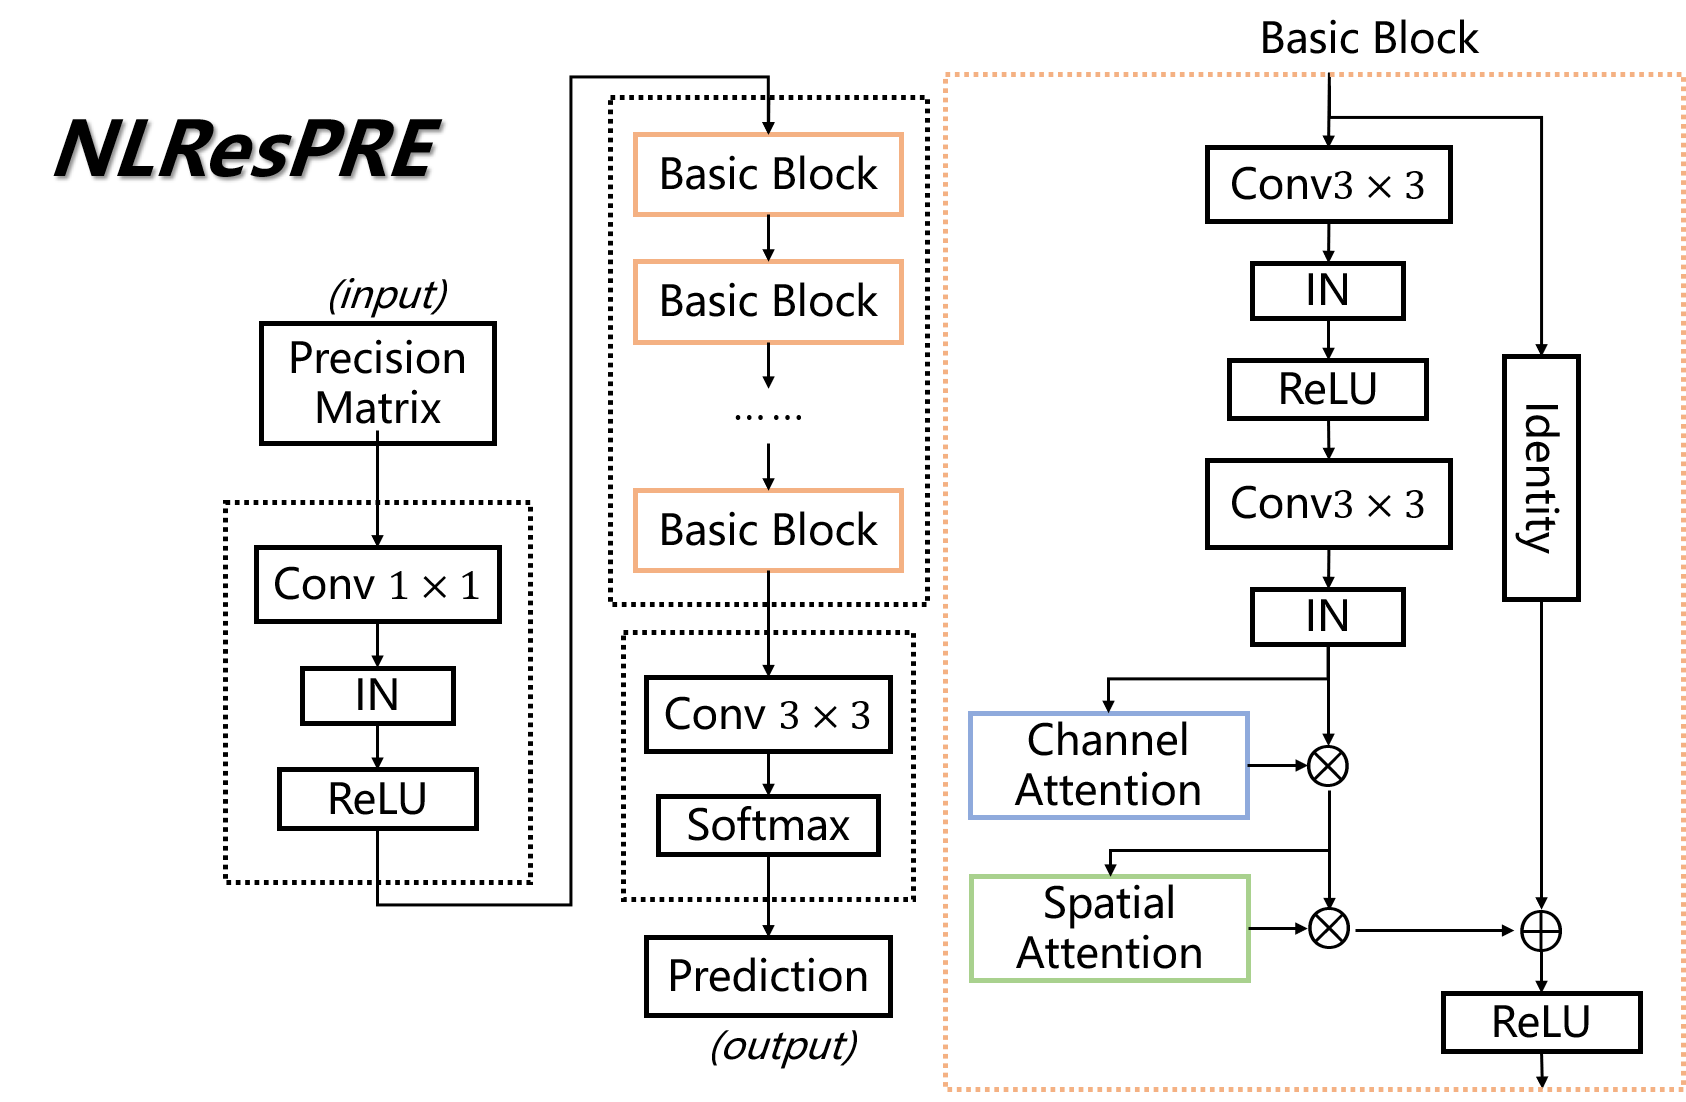
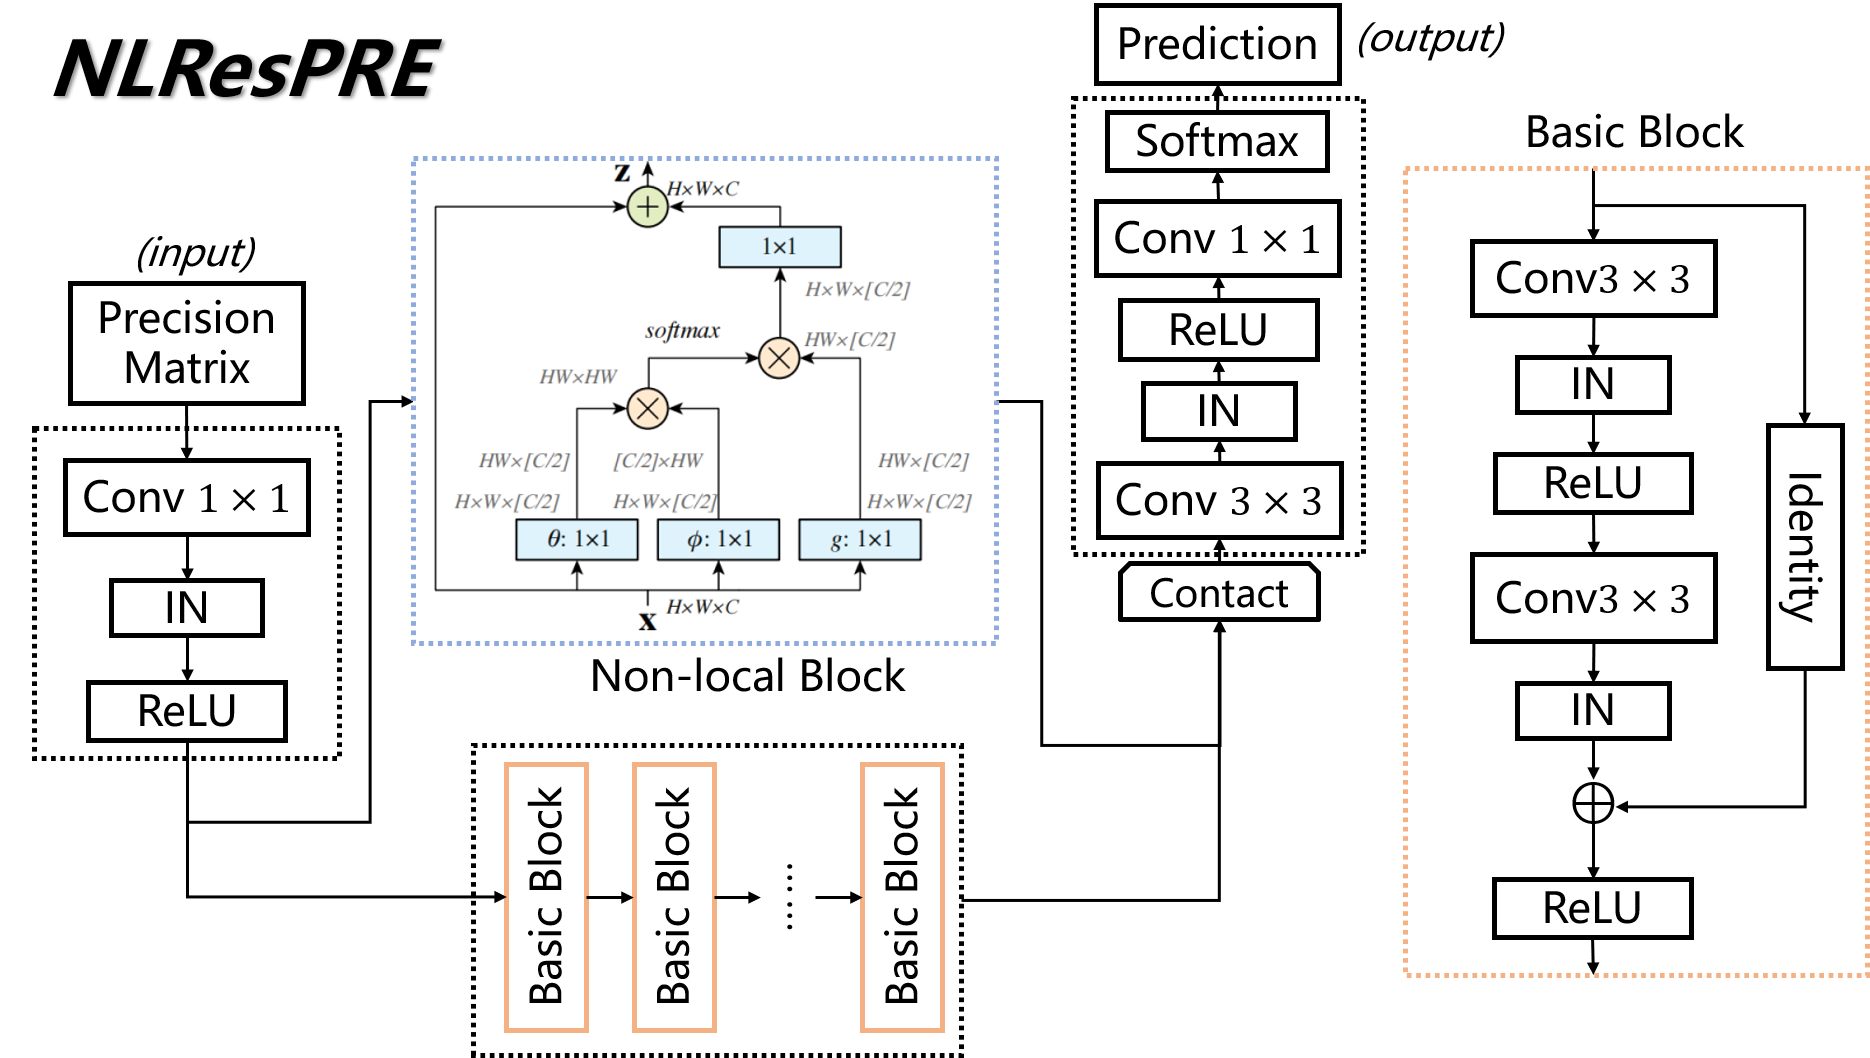
add docs and imgs

diff --git a/docs/configurations.md b/docs/configurations.md
@@ -10,9 +10,15 @@ The configuration files are all written in YAML format.
 
 All the default/provided configuration files are stored in the `configs` folder, in which
 
-- `DeepCov.yaml` (default configuration) is the configuration file of model 1;
-- `ResPRE.yaml` (DeepCov configuration), is the configuration file of model 2;
-- `NLResPRE.yaml` (ResPRE configuration), is the configuration file of model 3;
+- `DeepCov.yaml` (DeepCov configuration) is the configuration file of model 1;
+- `ResPRE.yaml` (ResPRE configuration), is the configuration file of model 2;
+- `FCResPRE.yaml` (FCResPRE configuration), is the configuration file of model 2.5;
+- `CbamResPRE.yaml` (CbamResPRE configuration), is the configuration file of model 3;
+- `CbamFCResPRE.yaml` (CbamFCResPRE configuration), is the configuration file of model 3.5;
+- `SEResPRE.ymal` (SEResPRE configuration), is the configuration file of model 4;
+- `SEFCResPRE.yaml` (SEFCResPRE configuration), is the configuration file of model 4.5;
+- `NLResPRE.yaml` (NLResPRE configuration), is the configuration file of model 5;
+- `HaloResPRE.yaml` (HaloResPRE configuration), is the configuration file of model 6;
 
 You can refer to the given configuration file to set up your own configurations. In the next sections we will introduce the possible items in the configuration of each model.
 
@@ -44,50 +50,63 @@ Here are the possible items in the configuration file of DeepCov model (model 1)
 
 Here are the possible items in the configuration file of ResPRE model (model 2).
 
-- `batch_size`: int, optional, default: 4, the batch size of the training/evaluation stage of the DeepCov model;
-- `zipped`: bool, optional, default: True, whether the data files are zipped;
-- `multigpu`: bool, optional, default: True, whether to multiple GPUs in training/inference;
-- `max_epoch`: int, optional, default: 30, the maximum of epoch num;
-- `adam_beta1`: float, optional, default: 0.9, the `beta1` parameter of AdamW optimizer;
-- `adam_beta2`: float, optional, default: 0.999, the `beta2` parameter of AdamW optimizer;
-- `adam_weight_decay`: float, optional, default: 0.01, the `weight_decay` parameter of AdamW optimizer;
-- `adam_eps`: float, optional, default: 1e-6, the `eps` parameter of AdamW optimizer;
-- `learning_rate`: float, optional, default: 0.001, the initial learning rate of AdamW optimizer;
-- `milestones`: list of int, optional, default: [15], the `milestones` parameter of learning rate scheduler;
-- `gamma`: float, optional, default: 0.1, the `gamma` parameter of learning rate scheduler;
-- `checkpoint_dir`: str, optional, default: 'checkpoint', the folder name where checkpoint file will be stored;
-- `temp_dir`: str, optional, default: 'temp', the folder name where temporary files will be stored;
-- `softmax`: bool, optional, default: True, whether the output will be activated by softmax function;
+- `batch_size`, `zipped`, `multigpu`, `max_epoch`, `adam_beta1`, `adam_beta2`, `adam_weight_decay`, `adam_eps`, `learning_rate`, `milestones`, `gamma`, `checkpoint_dir`, `temp_dir`, `softmax` parameters have already described in model 1.
 - `network`:
-    - `name`: str, optional, default: 'SampleNet', the name of network;
-    - `input_channel`: int, optional, default: 441, the dimension of input;
-    - `output_channel`: int, optional, default: 10, the dimension of output;
-    - `hidden_channel`: int, optional, default: 64, the dimension of hidden layer;
+    - `name`, `input_channel`, `output_channel`, `hidden_channel`, `blocks` parameters have already described in model 1.
     - `droprate`: float, optional, default: 0.2, the `dropout rate` parameter of residual basic block;
-    - `blocks`: int, optional, default: 22, the number of residual basic blocks;
 
-## NLResPRE (Model 3) Configurations
+## FCResPRE (Model 2.5) Configurations
 
-Here are the possible items in the configuration file of Citation-Bert model (model 3).
+It is the same as configurations of model 2.
 
-- `batch_size`: int, optional, default: 4, the batch size of the training/evaluation stage of the DeepCov model;
-- `zipped`: bool, optional, default: True, whether the data files are zipped;
-- `multigpu`: bool, optional, default: True, whether to multiple GPUs in training/inference;
-- `max_epoch`: int, optional, default: 30, the maximum of epoch num;
-- `adam_beta1`: float, optional, default: 0.9, the `beta1` parameter of AdamW optimizer;
-- `adam_beta2`: float, optional, default: 0.999, the `beta2` parameter of AdamW optimizer;
-- `adam_weight_decay`: float, optional, default: 0.01, the `weight_decay` parameter of AdamW optimizer;
-- `adam_eps`: float, optional, default: 1e-6, the `eps` parameter of AdamW optimizer;
-- `learning_rate`: float, optional, default: 0.001, the initial learning rate of AdamW optimizer;
-- `milestones`: list of int, optional, default: [15], the `milestones` parameter of learning rate scheduler;
-- `gamma`: float, optional, default: 0.1, the `gamma` parameter of learning rate scheduler;
-- `checkpoint_dir`: str, optional, default: 'checkpoint', the folder name where checkpoint file will be stored;
-- `temp_dir`: str, optional, default: 'temp', the folder name where temporary files will be stored;
-- `softmax`: bool, optional, default: True, whether the output will be activated by softmax function;
+## CbamResPRE (Model 3) Configurations
+
+Here are the possible items in the configuration file of CbamResPRE (model 3).
+
+- `batch_size`, `zipped`, `multigpu`, `max_epoch`, `adam_beta1`, `adam_beta2`, `adam_weight_decay`, `adam_eps`, `learning_rate`, `milestones`, `gamma`, `checkpoint_dir`, `temp_dir`, `softmax` parameters have already described in model 2.
 - `network`:
-    - `name`: str, optional, default: 'SampleNet', the name of network;
-    - `input_channel`: int, optional, default: 441, the dimension of input;
-    - `output_channel`: int, optional, default: 10, the dimension of output;
-    - `hidden_channel`: int, optional, default: 64, the dimension of hidden layer;
-    - `droprate`: float, optional, default: 0.2, the `dropout rate` parameter of residual basic block;
-    - `blocks`: int, optional, default: 22, the number of residual basic blocks;
+  - `name`, `input_channel`, `output_channel`, `hidden_channel`, `blocks` parameters have already described in model 2.
+  - `block_type`: str, optional, default:　'BasicBlock', the type of residual basic block
+
+
+
+## CbamFCResPRE (Model 3.5) Configurations
+
+It is the same as configurations of model 3.
+
+## SEResPRE (Model 4) Configurations
+
+Here are the possible items in the configuration file of SEResPRE (model 4).
+
+- `batch_size`, `zipped`, `multigpu`, `max_epoch`, `adam_beta1`, `adam_beta2`, `adam_weight_decay`, `adam_eps`, `learning_rate`, `milestones`, `gamma`, `checkpoint_dir`, `temp_dir`, `softmax` parameters have already described in model 3.
+- `network`:
+  - `name`, `input_channel`, `output_channel`, `hidden_channel`, `blocks`, `block_type` parameters have already described in model 3.
+
+  -`reduction`: int, optional, default: 16, the reduction rate of SE　attention module.
+
+
+## SEFCResPRE (Model 4.5) Configurations
+
+It is the same as configurations of model 4.
+
+
+## NLResPRE (Model 5) Configurations
+
+Here are the possible items in the configuration file of NLResPRE (model 5).
+
+- `batch_size`, `zipped`, `multigpu`, `max_epoch`, `adam_beta1`, `adam_beta2`, `adam_weight_decay`, `adam_eps`, `learning_rate`, `milestones`, `gamma`, `checkpoint_dir`, `temp_dir`, `softmax` parameters have already described in model 2.
+- `network`:
+  - `name`, `input_channel`, `output_channel`, `hidden_channel`, `blocks` parameters have already described in model 2.
+
+
+## HaloResPRE (Model 6) Configurations
+
+Here are the possible items in the configuration file of HaloResPRE (model 5).
+
+- `batch_size`, `zipped`, `multigpu`, `max_epoch`, `adam_beta1`, `adam_beta2`, `adam_weight_decay`, `adam_eps`, `learning_rate`, `milestones`, `gamma`, `checkpoint_dir`, `temp_dir`, `softmax` parameters have already described in model 2.
+- `network`:
+  - `name`, `input_channel`, `output_channel`, `hidden_channel`, `blocks` parameters have already described in model 2.
+  - `block_size`: int, optional, default: 8, <font color=red>懵逼</font>
+  - `halo_size`: int, optional, default: 4, <font color=red>懵逼</font>
+  - `dim_head`: int, optional, default: 16, <font color=red>懵逼</font>
+  - `heads`: int, optional, default: 4, <font color=red>懵逼</font>

diff --git a/docs/models.md b/docs/models.md
@@ -10,7 +10,31 @@ Here we illustrate the structures of the three models in our repository.
 
 ![](../imgs/respre.png)
 
+## Model 2.5: FCResPRE model for protein contact map prediction. (Baseline)
 
-## Model 3: NLResPRE model for protein contact map prediction. (Ours)
+
+![](../imgs/fcrespre.png)
+
+## Model 3: CbamResPRE model for protein contact map prediction. (Ours)
+
+![](../imgs/cbamrespre.png)
+
+## Model 3.5: CbamFCResPRE model for protein contact map prediction. (Ours)
+
+![](../imgs/cbamfcrespre.png)
+
+## Model 4: SEResPRE model for protein contact map prediction. (Ours)
+
+![](../imgs/serespre.png)
+
+## Model 4.5: SEFCResPRE model for protein contact map prediction. (Ours)
+
+![](../imgs/sefcrespre.png)
+
+## Model 5: NLResPRE model for protein contact map prediction. (Ours)
 
 ![](../imgs/nlrespre.png)
+
+## Model 6: HaloResPRE model for protein contact map prediction. (Ours)
+
+![](../imgs/halonet.png)
